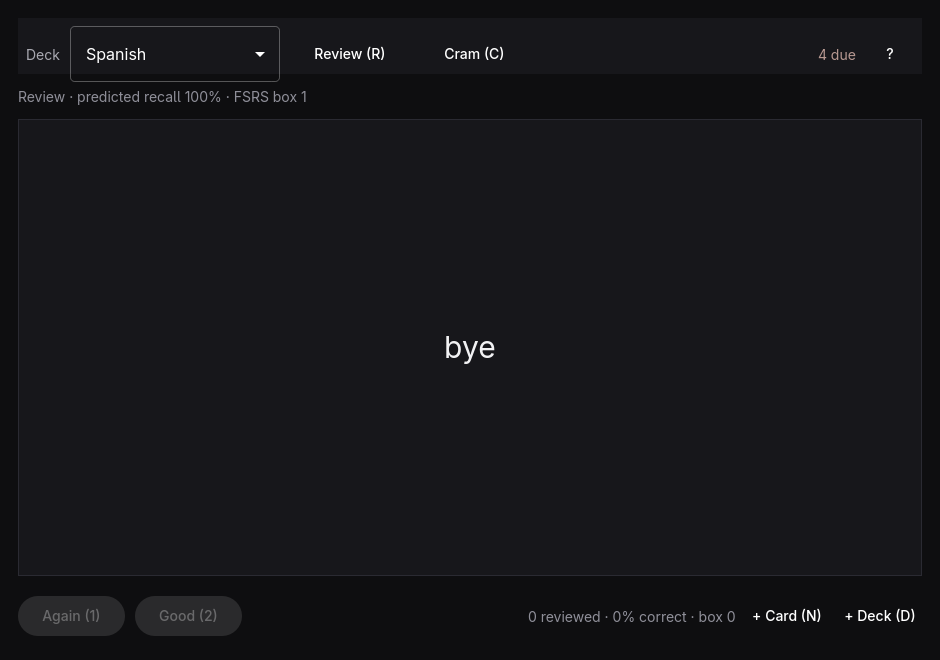
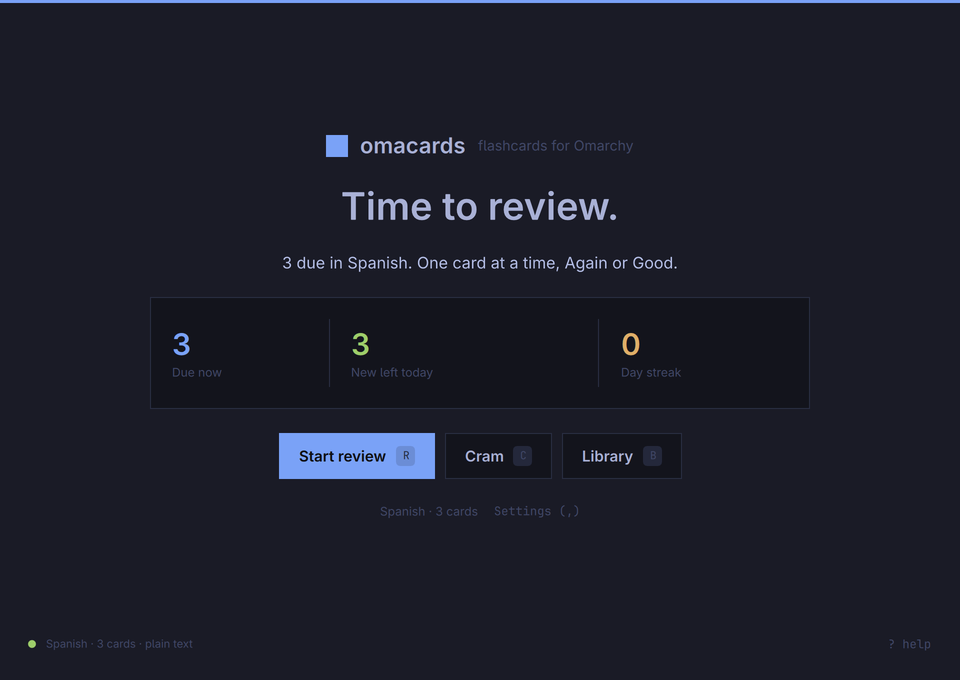
Add keyboard navigation to card browser and refresh docs

diff --git a/src/Main.qml b/src/Main.qml
@@ -31,6 +31,7 @@ ApplicationWindow {
     property var statsData: ({})
     property string editCardId: ""
     property string pendingDeck: ""
+    property int cardIndex: 0
 
     function withAlpha(color, alpha) {
         return Qt.rgba(color.r, color.g, color.b, alpha)
@@ -53,7 +54,36 @@ ApplicationWindow {
     function openLibrary() {
         backend.refresh()
         screen = "library"
+        cardIndex = Math.min(Math.max(cardIndex, 0), Math.max(0, backend.cardList.length - 1))
         keyHandler.forceActiveFocus()
+    }
+
+    function moveCardSelection(delta) {
+        const count = backend.cardList.length
+        if (count === 0)
+            return
+        let next = cardIndex + delta
+        if (next < 0) next = count - 1
+        if (next >= count) next = 0
+        cardIndex = next
+        cardView.positionViewAtIndex(next, ListView.Contain)
+    }
+
+    function selectedCard() {
+        const list = backend.cardList
+        if (list.length === 0 || cardIndex < 0 || cardIndex >= list.length)
+            return null
+        return list[cardIndex]
+    }
+
+    function editSelectedCard() {
+        const card = selectedCard()
+        if (card) openEditor(card)
+    }
+
+    function removeSelectedCard() {
+        const card = selectedCard()
+        if (card) backend.removeCard(card.id)
     }
 
     function openSettings() {
@@ -392,6 +422,35 @@ ApplicationWindow {
                         break
                     case Qt.Key_C:
                         startStudy("cram")
+                        event.accepted = true
+                        break
+                    }
+                }
+
+                if (screen === "library") {
+                    switch (event.key) {
+                    case Qt.Key_J:
+                    case Qt.Key_Down:
+                        win.moveCardSelection(1)
+                        event.accepted = true
+                        break
+                    case Qt.Key_K:
+                    case Qt.Key_Up:
+                        win.moveCardSelection(-1)
+                        event.accepted = true
+                        break
+                    case Qt.Key_Return:
+                    case Qt.Key_Enter:
+                        win.editSelectedCard()
+                        event.accepted = true
+                        break
+                    case Qt.Key_Delete:
+                    case Qt.Key_Backspace:
+                        win.removeSelectedCard()
+                        event.accepted = true
+                        break
+                    case Qt.Key_Slash:
+                        librarySearch.forceActiveFocus()
                         event.accepted = true
                         break
                     }
@@ -875,7 +934,10 @@ ApplicationWindow {
                                                 MouseArea {
                                                     anchors.fill: parent
                                                     cursorShape: Qt.PointingHandCursor
-                                                    onClicked: backend.selectDeck(deckRow.modelData.name)
+                                                    onClicked: {
+                                                        backend.selectDeck(deckRow.modelData.name)
+                                                        win.cardIndex = 0
+                                                    }
                                                 }
                                             }
                                         }
@@ -938,7 +1000,10 @@ ApplicationWindow {
                                             Layout.fillWidth: true
                                             placeholderText: qsTr("Search questions, answers and tags")
                                             text: backend.cardFilter
-                                            onTextChanged: backend.cardFilter = text
+                                            onTextChanged: {
+                                                backend.cardFilter = text
+                                                win.cardIndex = 0
+                                            }
                                             onAccepted: keyHandler.forceActiveFocus()
                                             Keys.onEscapePressed: {
                                                 win.goHome()
@@ -958,19 +1023,27 @@ ApplicationWindow {
                                         }
 
                                         ListView {
+                                            id: cardView
                                             Layout.fillWidth: true
                                             Layout.fillHeight: true
                                             clip: true
                                             spacing: 6
                                             model: backend.cardList
+                                            currentIndex: win.cardIndex
+                                            onCurrentIndexChanged: win.cardIndex = currentIndex
 
                                             delegate: Rectangle {
                                                 id: cardRow
                                                 required property var modelData
+                                                required property int index
                                                 width: ListView.view.width
                                                 height: 52
                                                 radius: Math.min(8, theme.radius)
-                                                color: hover.hovered ? win.raised : win.withAlpha(win.raised, 0.45)
+                                                color: cardRow.ListView.isCurrentItem
+                                                       ? win.withAlpha(theme.accent, 0.16)
+                                                       : hover.hovered ? win.raised : win.withAlpha(win.raised, 0.45)
+                                                border.width: cardRow.ListView.isCurrentItem ? 1 : 0
+                                                border.color: win.withAlpha(theme.accent, 0.6)
 
                                                 Rectangle {
                                                     width: 3
@@ -1021,13 +1094,23 @@ ApplicationWindow {
                                                 }
 
                                                 HoverHandler { id: hover }
+
+                                                MouseArea {
+                                                    anchors.fill: parent
+                                                    z: -1
+                                                    cursorShape: Qt.PointingHandCursor
+                                                    onClicked: {
+                                                        win.cardIndex = cardRow.index
+                                                        keyHandler.forceActiveFocus()
+                                                    }
+                                                }
                                             }
                                         }
 
                                         RowLayout {
                                             Layout.fillWidth: true
                                             Label {
-                                                text: qsTr("Ctrl+Z undo")
+                                                text: qsTr("J/K move · Enter edit · Del delete · / search · Ctrl+Z undo")
                                                 color: win.muted
                                                 font.pixelSize: 11
                                             }
@@ -1315,6 +1398,10 @@ ApplicationWindow {
                         { keys: "2 / G / →", action: qsTr("Good") },
                         { keys: "R / C", action: qsTr("Review or cram mode") },
                         { keys: "B", action: qsTr("Open the library") },
+                        { keys: "J / K", action: qsTr("Move the card selection in the library") },
+                        { keys: "Enter", action: qsTr("Edit the selected card in the library") },
+                        { keys: "Del", action: qsTr("Delete the selected card in the library") },
+                        { keys: "/", action: qsTr("Focus library search") },
                         { keys: "S", action: qsTr("Stats for today and this session") },
                         { keys: ",", action: qsTr("Settings") },
                         { keys: "N / D", action: qsTr("New card or new deck") },

diff --git a/tests/omacards_tests.cpp b/tests/omacards_tests.cpp
@@ -300,6 +300,72 @@ private slots:
         QVERIFY(relaxed.intervalDays >= strict.intervalDays);
     }
 
+    void backendReportsNewCountAndDeckSummaries() {
+        QTemporaryDir dir;
+        Backend backend(dir.path(), dir.filePath("state.db"));
+        QString error;
+        QVERIFY(backend.initialize(&error));
+        QVERIFY(backend.createDeck("Alpha", &error));
+        for (int i = 0; i < 4; ++i)
+            QVERIFY(backend.createCard("Alpha", QString("A%1").arg(i), "a", "basic", {}, &error));
+        QVERIFY(backend.createDeck("Beta", &error));
+        QVERIFY(backend.createCard("Beta", "B0", "b", "basic", {}, &error));
+
+        QCOMPARE(backend.totalCards(), 5);
+        QCOMPARE(backend.newCount(), 5);
+
+        const QVariantList summaries = backend.deckSummaries();
+        QCOMPARE(summaries.size(), 2);
+        QCOMPARE(summaries.at(0).toMap().value("name").toString(), QString("Alpha"));
+        QCOMPARE(summaries.at(0).toMap().value("cards").toInt(), 4);
+        QCOMPARE(summaries.at(0).toMap().value("new").toInt(), 4);
+        QCOMPARE(summaries.at(1).toMap().value("name").toString(), QString("Beta"));
+
+        backend.setNewPerDay(3);
+        QCOMPARE(backend.newCount(), 3);
+        const QVariantList capped = backend.deckSummaries();
+        QCOMPARE(capped.at(0).toMap().value("new").toInt(), 3);
+        QCOMPARE(capped.at(1).toMap().value("new").toInt(), 0);
+    }
+
+    void qmlCanNavigateLibraryCards() {
+        QTemporaryDir dir;
+        Backend backend(dir.path(), dir.filePath("state.db"));
+        QString error;
+        QVERIFY(backend.initialize(&error));
+        QVERIFY(backend.createDeck("Test", &error));
+        for (int i = 0; i < 3; ++i)
+            QVERIFY(backend.createCard("Test", QString("Q%1").arg(i), "A", "basic", {}, &error));
+        backend.selectDeck("Test");
+
+        QQmlEngine engine;
+        Theme theme;
+        engine.rootContext()->setContextProperty("backend", &backend);
+        engine.rootContext()->setContextProperty("theme", &theme);
+        QQmlComponent component(&engine,
+                                QUrl::fromLocalFile(QStringLiteral(OMACARDS_SOURCE_DIR) + "/Main.qml"));
+        QVERIFY2(component.isReady(), qPrintable(component.errorString()));
+        QObject *window = component.create();
+        QVERIFY2(window, qPrintable(component.errorString()));
+
+        QCOMPARE(window->property("cardIndex").toInt(), 0);
+        QVERIFY(QMetaObject::invokeMethod(window, "moveCardSelection", Q_ARG(QVariant, 1)));
+        QCOMPARE(window->property("cardIndex").toInt(), 1);
+        QVERIFY(QMetaObject::invokeMethod(window, "moveCardSelection", Q_ARG(QVariant, -1)));
+        QCOMPARE(window->property("cardIndex").toInt(), 0);
+        QVERIFY(QMetaObject::invokeMethod(window, "moveCardSelection", Q_ARG(QVariant, -1)));
+        QCOMPARE(window->property("cardIndex").toInt(), 2); // wraps around
+
+        QVariant selected;
+        QVERIFY(QMetaObject::invokeMethod(window, "selectedCard", Q_RETURN_ARG(QVariant, selected)));
+        QCOMPARE(selected.toMap().value("question").toString(), QString("Q2"));
+
+        QVERIFY(QMetaObject::invokeMethod(window, "removeSelectedCard"));
+        QCOMPARE(backend.totalCards(), 2);
+        QCOMPARE(backend.cardList().size(), 2);
+        delete window;
+    }
+
     void backendAppliesNewCardLimit() {
         QTemporaryDir dir;
         const QString database = dir.filePath("state.db");

diff --git a/src/backend.h b/src/backend.h
@@ -47,6 +47,7 @@ class Backend : public QObject {
     Q_PROPERTY(QString currentCardId READ currentCardId NOTIFY cardChanged)
     Q_PROPERTY(int newPerDay READ newPerDay WRITE setNewPerDay NOTIFY settingsChanged)
     Q_PROPERTY(double desiredRetention READ desiredRetention WRITE setDesiredRetention NOTIFY settingsChanged)
+    Q_PROPERTY(QString decksDirectory READ decksDirectory CONSTANT)
 
 public:
     explicit Backend(const QString &decksDirectory = {}, const QString &databasePath = {},

diff --git a/README.md b/README.md
@@ -31,6 +31,10 @@ Requirements: Qt 6 (base, declarative, wayland, SQL), qmake6, gcc/make. Optional
 | `N` | New card |
 | `D` | New deck |
 | `B` | Browse and search cards |
+| `J` / `K` | Move the card selection in the library (wraps around) |
+| `Enter` | Edit the selected card in the library |
+| `Delete` / `Backspace` | Delete the selected card in the library |
+| `/` | Focus library search |
 | `S` | Stats for today and this session |
 | `,` | Settings: new cards per day and desired retention |
 | `Ctrl+Z` / `Ctrl+Shift+Z` | Undo / redo a card or deck edit |
@@ -43,7 +47,7 @@ Requirements: Qt 6 (base, declarative, wayland, SQL), qmake6, gcc/make. Optional
 
 Closing the window hides it to the system tray. The tray tooltip shows the number of due cards; clicking it opens a review session.
 
-`B` opens the card browser. It searches questions, answers and tags, and each card can be edited or deleted there. Card and deck edits are undoable with `Ctrl+Z`; `Ctrl+Shift+Z` (or `Ctrl+Y`) redoes them. The same history covers cards added from the GUI, CLI imports and deck deletions. Review answers are intentionally not undoable, so a lapse cannot be erased by accident.
+`B` opens the card browser. It searches questions, answers and tags, and each card can be edited or deleted there. The selected row is highlighted; `J`/`K` (or the arrow keys) move it, `Enter` edits it and `Delete` removes it. Clicking a row selects it, and `/` jumps to the search field. Card and deck edits are undoable with `Ctrl+Z`; `Ctrl+Shift+Z` (or `Ctrl+Y`) redoes them. The same history covers cards added from the GUI, CLI imports and deck deletions. Review answers are intentionally not undoable, so a lapse cannot be erased by accident.
 
 ## Settings
 
